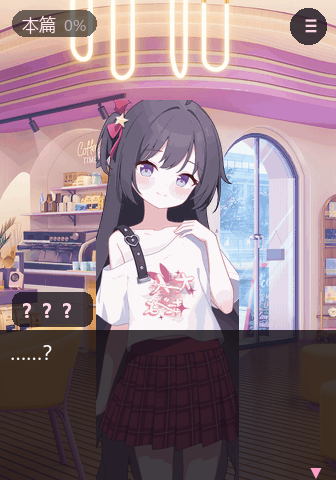
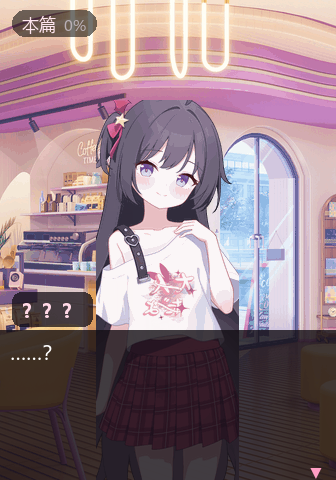
重出截图与预览图（适配 2.5.2 的界面改动）
- 设置页改成新版式：字体大小 / 播放速度 / 自动播放速度 /
  屏幕常亮 / 长按屏幕（隐藏·快进·关闭）
- 新增「09-阅读菜单」：继续阅读 / 保存进度 / 读取存档 /
  自动播放 / 快进 / 下一章·快退 / 章节·CG / 设置·主页 / 退出
- 预览器不再画右上角的 ≡ 按钮（2.5 起菜单改为下滑打开，按钮被隐藏）

Changed region(s): [[0.8631, 0.0, 0.9821, 0.0938]]

diff --git a/tools/screenshots.py b/tools/screenshots.py
@@ -148,28 +148,65 @@ def _pill(page, d, x, y, text, on):
 
 
 def page_settings(src):
+    """2.5.2 的设置页：3 行滑块 + 2 行开关（屏幕常亮 / 长按屏幕）。"""
     page = Image.new("RGBA", (W, H), (20, 16, 26, 255))
     d = ImageDraw.Draw(page, "RGBA")
     d.text((W // 2, 4), "设置", font=P.font(21, True), fill=(255, 216, 230), anchor="ma")
     _row(page, d, 34, "字体大小", "20", 0.42)
     _row(page, d, 98, "播放速度", "28", 0.23)
-    _row(page, d, 162, "自动播放", "关闭", 0.0)
-    d.text((14, 226), "快速播放", font=P.font(16), fill=(207, 194, 203))
-    _pill(page, d, 228, 224, "关", False)
-    _pill(page, d, 278, 224, "开", True)
-    d.text((14, 260), "屏幕常亮", font=P.font(16), fill=(207, 194, 203))
-    _pill(page, d, 228, 258, "关", False)
-    _pill(page, d, 278, 258, "开", True)
-    d.text((14, 292), "字号改动会立刻重排正文，60 字一页", font=P.font(12),
+    _row(page, d, 162, "自动播放速度", "关闭", 0.0)
+    d.text((14, 228), "屏幕常亮", font=P.font(16), fill=(207, 194, 203))
+    _pill(page, d, 228, 226, "关", False)
+    _pill(page, d, 278, 226, "开", True)
+    d.text((14, 262), "长按屏幕", font=P.font(16), fill=(207, 194, 203))
+    # 三选一：隐藏 / 快进 / 关闭 —— 整行左移（.lprow left:180）
+    _pill(page, d, 180, 260, "隐藏", False)
+    _pill(page, d, 230, 260, "快进", True)
+    _pill(page, d, 280, 260, "关闭", False)
+    d.text((14, 296), "字号 14~30 px，显示的数字就是 px", font=P.font(12), fill=(139, 127, 137))
+    d.text((14, 310), "播放速度＝每字毫秒；自动播放＝每句停留毫秒", font=P.font(12),
            fill=(139, 127, 137))
-    d.text((14, 306), "滑块不生效时可用 −／＋ 调节", font=P.font(12), fill=(139, 127, 137))
-    P.blend(page, (12, 322, 324, 424), 14, (26, 20, 32, 255))
-    d.text((168, 330), "预览", font=P.font(13), fill=(156, 143, 155), anchor="ma")
-    d.text((26, 352), "她正专注地在眼前的平板上", font=P.font(20), fill=(233, 224, 230))
-    d.text((26, 380), "画着什么，小小的身体几乎", font=P.font(20), fill=(233, 224, 230))
-    d.text((26, 408), "整个趴在了桌子上。", font=P.font(20), fill=(233, 224, 230))
-    P.blend(page, (50, 432, 286, 472), 20, (50, 36, 58, 255))
-    d.text((168, 452), "返回", font=P.font(19), fill=(255, 255, 255), anchor="mm")
+    P.blend(page, (12, 326, 324, 414), 14, (26, 20, 32, 255))
+    d.text((168, 334), "预览", font=P.font(13), fill=(156, 143, 155), anchor="ma")
+    d.text((26, 356), "她正专注地在眼前的平板上", font=P.font(19), fill=(233, 224, 230))
+    d.text((26, 382), "画着什么，小小的身体几乎", font=P.font(19), fill=(233, 224, 230))
+    P.blend(page, (50, 420, 286, 460), 20, (50, 36, 58, 255))
+    d.text((168, 440), "返回", font=P.font(19), fill=(255, 255, 255), anchor="mm")
+    return page
+
+
+def page_menu(src):
+    """阅读菜单（2.5.2）：自动播放 / 快进 / 下一章·快退 / 章节·CG / 设置·主页 / 退出。"""
+    page = Image.new("RGBA", (W, H), (20, 15, 23, 255))
+    d = ImageDraw.Draw(page, "RGBA")
+    d.text((W // 2, 14), "阅读菜单", font=P.font(24, True), fill=(255, 216, 230), anchor="ma")
+    d.text((W // 2, 46), "序章 · 咖啡厅的小小身影 · 12%", font=P.font(15),
+           fill=(164, 151, 159), anchor="ma")
+    y = 74
+
+    def one(label, main=False, quit_=False):
+        nonlocal y
+        fill = (185, 80, 121, 255) if main else ((36, 26, 43, 255) if quit_ else (44, 33, 51, 255))
+        P.blend(page, (48, y, 288, y + 36), 18, fill)
+        d.text((168, y + 18), label, font=P.font(17), fill=(255, 255, 255), anchor="mm")
+        y += 41
+
+    def two(a, b):
+        nonlocal y
+        for x, lab in ((48, a), (172, b)):
+            P.blend(page, (x, y, x + 116, y + 36), 18, (44, 33, 51, 255))
+            d.text((x + 58, y + 18), lab, font=P.font(17), fill=(255, 255, 255), anchor="mm")
+        y += 41
+
+    one("继续阅读", main=True)
+    one("保存进度")
+    one("读取存档")
+    one("自动播放：关")
+    one("快进：关")
+    two("下一章", "快退")
+    two("章节", "CG")
+    two("设置", "主页")
+    one("退出", quit_=True)
     return page
 
 
@@ -279,6 +316,7 @@ def main():
         src, [c for c in chapters if not c.get("need")])))
     shots.append(("07b-章节选择·通关后", page_chapters(src, chapters)))
     shots.append(("08-设置", page_settings(src)))
+    shots.append(("09-阅读菜单", page_menu(src)))
 
     for name, im in shots:
         im = im.convert("RGB")

diff --git a/tools/preview_port.py b/tools/preview_port.py
@@ -150,8 +150,11 @@ def render(src, img, idx, node, chapter, progress, state):
     blend(page, (12, 10, 12 + 10 + tw + 8 + pw + 10, 10 + 26), 13, (0, 0, 0, 140))
     d.text((22, 13), chapter, font=ft, fill=(255, 230, 239, 255))
     d.text((22 + tw + 8, 15), progress, font=fp, fill=(185, 176, 182, 255))
-    blend(page, (290, 8, 290 + 36, 8 + 36), 18, (27, 21, 32, 209))
-    d.text((304, 8), "≡", font=font(24), fill=(255, 216, 230, 255))
+    # 右上角的 ≡ 菜单按钮：galgod 2.5 起**隐藏了**（改成下滑打开菜单，
+    # game.ux 里那行的 if 被写成 {{false}}，代码还留着）。所以这里不画。
+    # 想恢复按钮的话，把下面两行取消注释即可。
+    # blend(page, (278, 6, 278 + 52, 6 + 52), 26, (27, 21, 32, 209))
+    # d.text((304, 20), "≡", font=font(30), fill=(255, 216, 230, 255))
 
     if node["t"] == "o":
         y = 96
